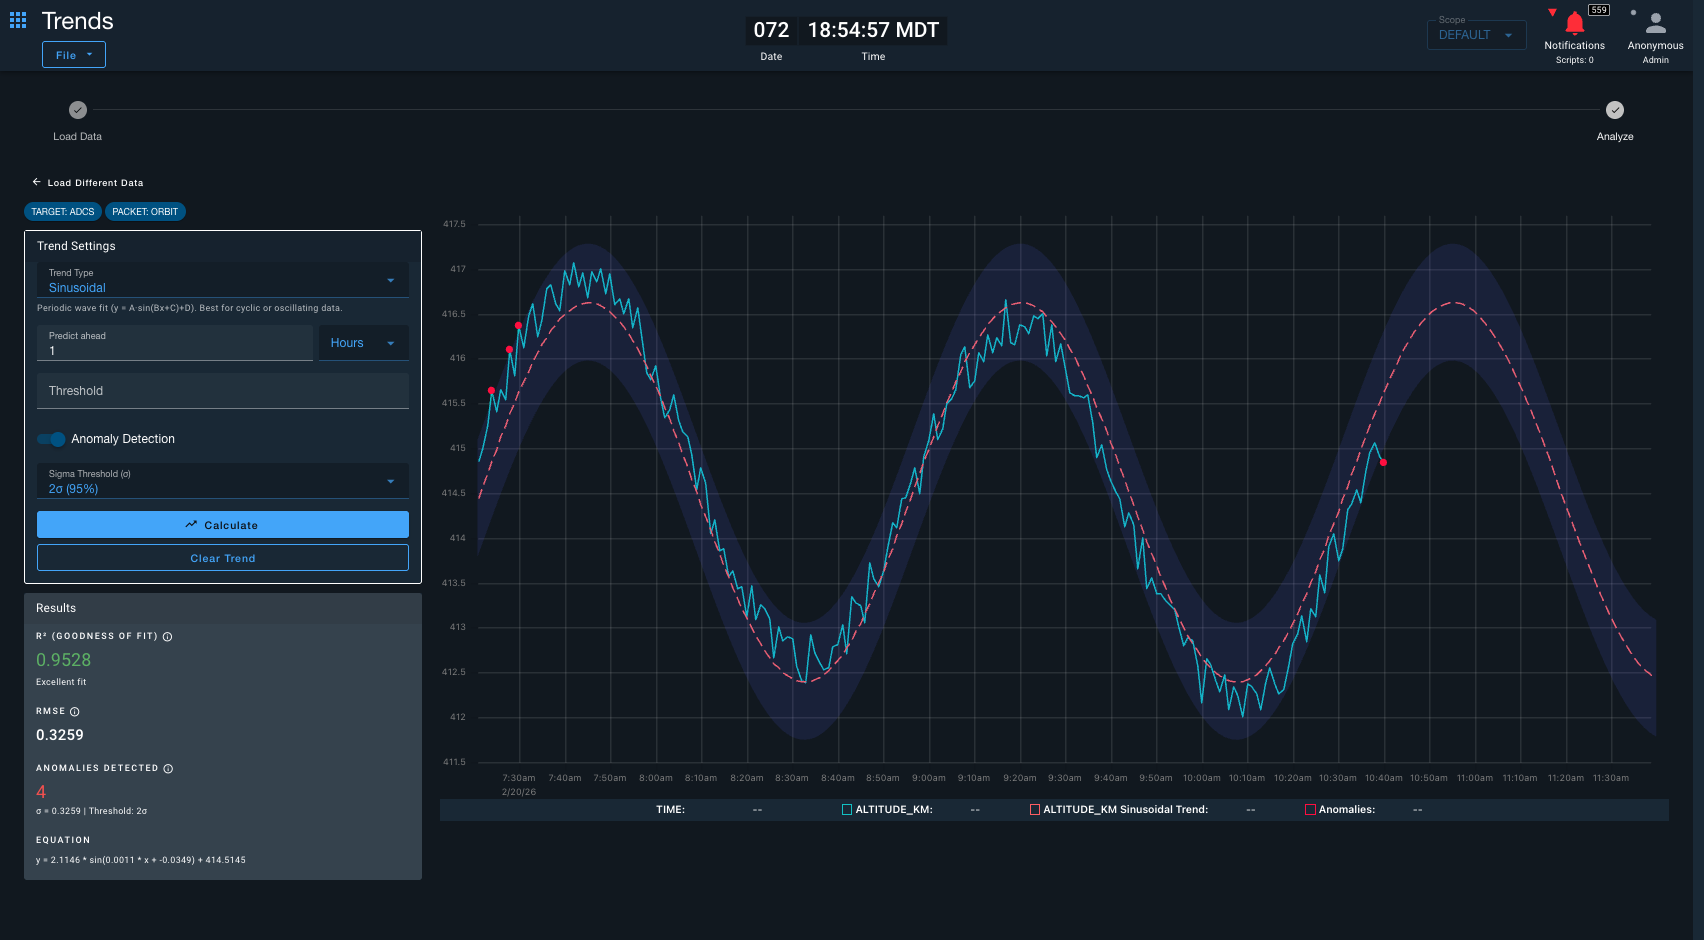
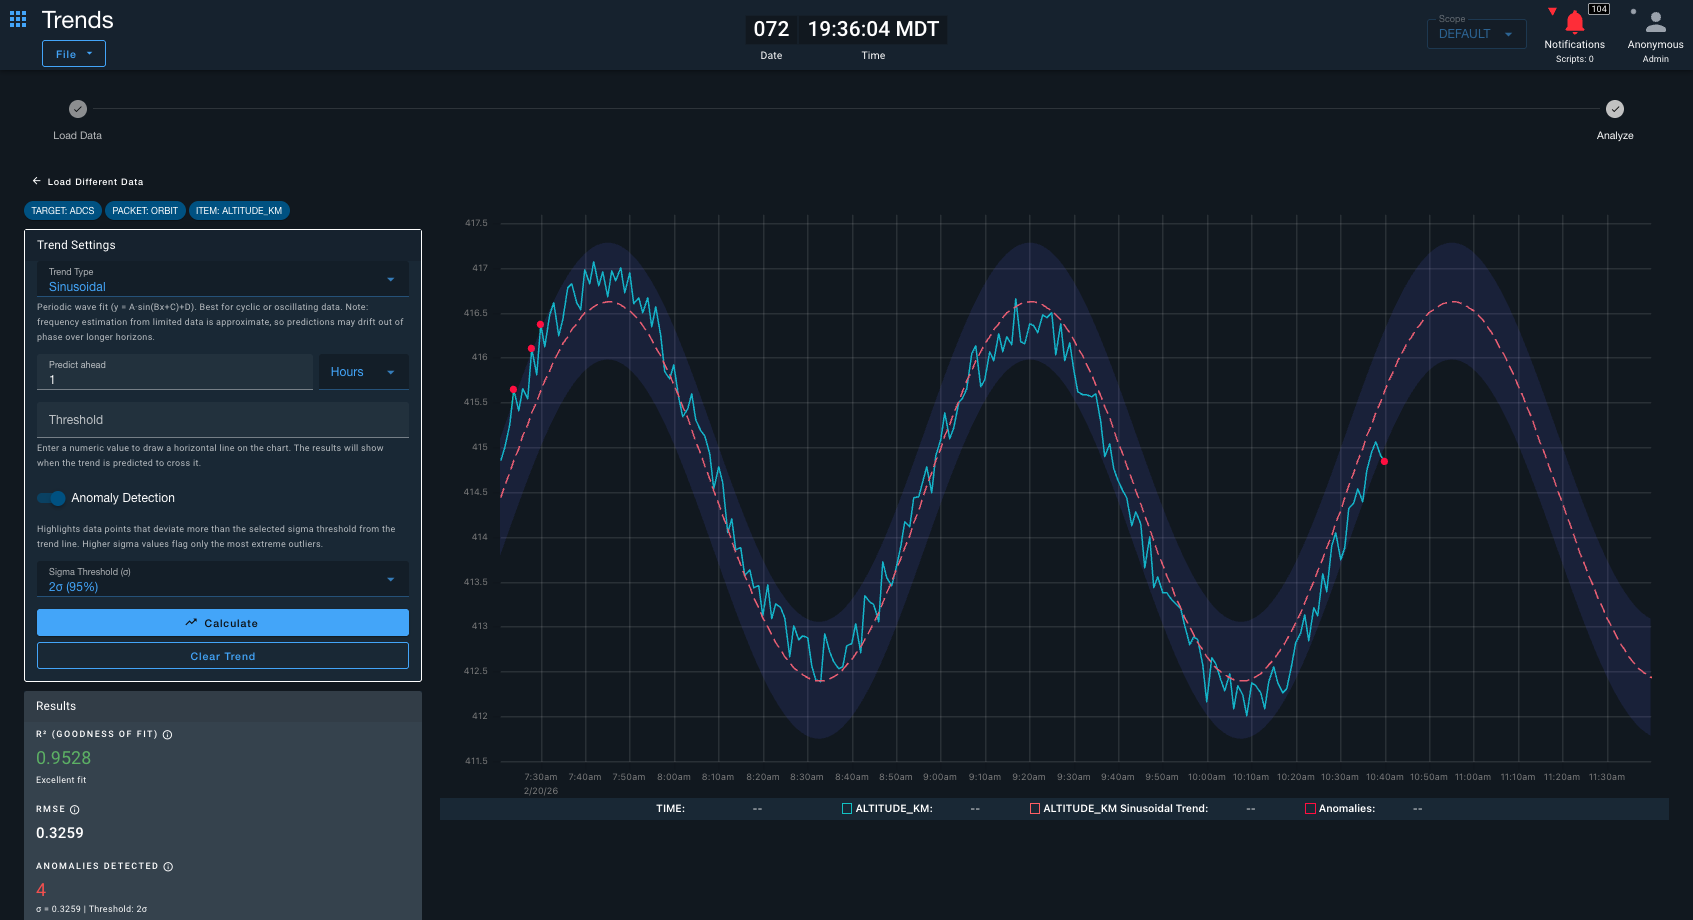
Final touches

diff --git a/src/lib/trendEngine.js b/src/lib/trendEngine.js
@@ -85,26 +85,46 @@ export function fitTrend(data, config) {
   }
 }
 
-// Generate prediction points extending from lastTimestamp into the future
+// Generate prediction points extending from lastTimestamp into the future.
+// Uses a fixed density (points per unit time) so that long horizons don't
+// starve the data range of points and cause a jagged trend line.
 export function generatePredictionPoints(
   predict,
   startTimestamp,
   lastTimestamp,
   horizonSec,
-  numPoints = 200,
 ) {
-  const points = []
-  const totalStart = startTimestamp
-  const totalEnd = lastTimestamp + horizonSec
-  const step = (totalEnd - totalStart) / (numPoints - 1)
+  const dataSpan = lastTimestamp - startTimestamp
+  const futureSpan = horizonSec
 
-  for (let i = 0; i < numPoints; i++) {
-    const x = totalStart + step * i
-    const y = predict(x)
-    if (isFinite(y)) {
-      points.push([x, y])
+  // 200 points over the data range, then proportionally more for the future
+  const dataPoints = 200
+  const futurePoints = dataSpan > 0
+    ? Math.max(50, Math.round(dataPoints * (futureSpan / dataSpan)))
+    : 200
+
+  const points = []
+
+  // Data range
+  if (dataPoints > 1 && dataSpan > 0) {
+    const step = dataSpan / (dataPoints - 1)
+    for (let i = 0; i < dataPoints; i++) {
+      const x = startTimestamp + step * i
+      const y = predict(x)
+      if (isFinite(y)) points.push([x, y])
     }
   }
+
+  // Future range (starts just after lastTimestamp to avoid duplicate)
+  if (futurePoints > 0 && futureSpan > 0) {
+    const step = futureSpan / futurePoints
+    for (let i = 1; i <= futurePoints; i++) {
+      const x = lastTimestamp + step * i
+      const y = predict(x)
+      if (isFinite(y)) points.push([x, y])
+    }
+  }
+
   return points
 }
 

diff --git a/src/tools/trends/AnalyzeStep.vue b/src/tools/trends/AnalyzeStep.vue
@@ -90,10 +90,13 @@
               density="comfortable"
               hide-details
               clearable
-              class="mb-4"
+              class="mb-1"
               @update:model-value="$emit('update:threshold', $event != null && $event !== '' && !isNaN(Number($event)) ? Number($event) : null)"
               @click:clear="$emit('update:threshold', null)"
             />
+            <div class="text-caption mb-3" style="opacity: 0.7">
+              Enter a numeric value to draw a horizontal line on the chart. The results will show when the trend is predicted to cross it.
+            </div>
             <v-switch
               v-if="activeTrend"
               :model-value="showAnomalies"
@@ -104,6 +107,9 @@
               class="mb-2"
               @update:model-value="$emit('update:showAnomalies', $event)"
             />
+            <div v-if="activeTrend && showAnomalies" class="text-caption mb-3" style="opacity: 0.7">
+              Highlights data points that deviate more than the selected sigma threshold from the trend line. Higher sigma values flag only the most extreme outliers.
+            </div>
             <v-select
               v-if="activeTrend && showAnomalies"
               :model-value="sigmaN"
